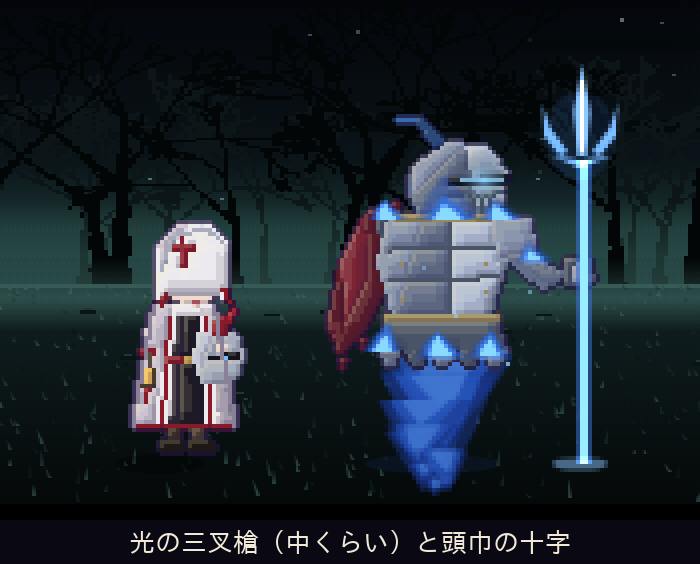
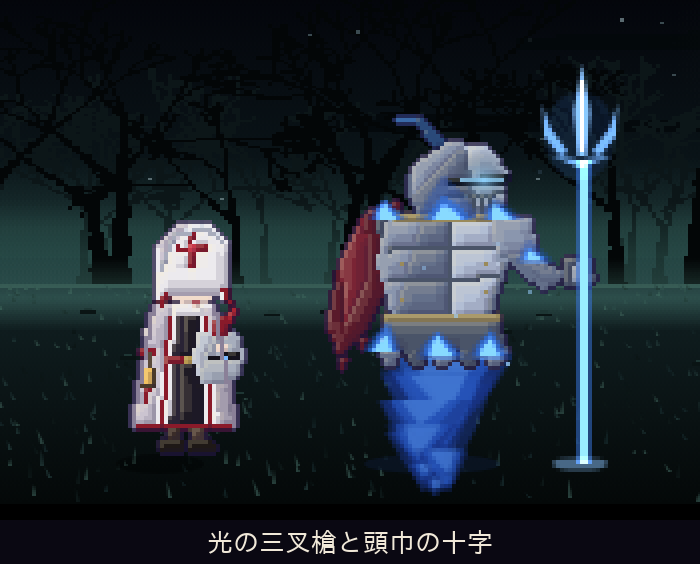
見本：頭巾の十字を真ん中に
Claude-Session: https://claude.ai/code/session_01WH54oS4KmYdGRLZPTJSRWC

Changed region(s): [[0.18, 0.9344, 0.81, 0.9947], [0.24, 0.422, 0.3, 0.4823]]

diff --git a/dev/mock/girls3.js b/dev/mock/girls3.js
@@ -157,7 +157,7 @@ const GR=o=>[38,42,3,A0=>{const A=OFS(A0,2),{t,l,e,r,q,sh,pt}=A;const W1='#eceae
   t([[16.6,9.6],[26.4,9.4],[26,11.8],[24,12.6],[21,12.2],[18,12.6],[16.8,11.8]],W1);l(17.2,12.4,25.6,12,W3,.3);
   if(o.hlin){l(16.4,11.6,16.6,14.6,o.hlin,.4);l(26.6,11.2,26.6,14.4,o.hlin,.4);l(16.8,10.8,26.4,10.4,o.hlin,.25)}
   l(16.8,12.4,16.2,14.6,RD,.3);l(26.6,11.4,27.4,13.4,RD,.3);
-  if(o.hx){t([[19,2.6],[20.2,2.4],[20.6,7.8],[19.4,8]],RD);t([[17.4,4.2],[22.2,3.8],[22.2,5],[17.4,5.4]],RD);l(16,8.6,18.6,2.2,'#a8acbc',.3);l(18.6,2.2,24,1.8,'#a8acbc',.3);l(24,1.8,26.4,3.6,'#a8acbc',.3);for(const[x,y]of[[20,1.4],[23,1.2],[25.6,2.4]])q(x,y,'#d8dce6')}});
+  if(o.hx){t([[20.6,2],[21.8,1.9],[21.6,3.6],[22.2,7.6],[21.4,8.4],[20.6,7.6],[21,3.6]],RD);t([[18.4,4.2],[20.2,4.4],[22.2,4.2],[24.2,3.9],[24,5.2],[22.2,5.1],[20.2,5.3],[18.4,5.4]],RD);t([[21.3,3.6],[22.2,4.7],[21.3,5.8],[20.4,4.7]],'#c83a4a');l(16,8.6,18.6,2.2,'#a8acbc',.3);l(18.6,2.2,24,1.8,'#a8acbc',.3);l(24,1.8,26.4,3.6,'#a8acbc',.3);for(const[x,y]of[[20,1.4],[23,1.2],[25.6,2.4]])q(x,y,'#d8dce6')}});
  // 手前の腕と兜
  pt('af',()=>{t([[23.4,14.6],[26,15.6],[27,20.6],[24.6,21]],W2);t([[23.8,19.6],[26.8,19.4],[27,20.8],[24.2,21]],o.cuff||RD);
   t([[22,19],[29,19],[30,22.6],[29,26],[26.6,27.4],[22.6,27],[21.4,23]],'#a8b0be');t([[22,19],[25,19],[23.4,23],[22.6,27],[21.4,23]],'#c4cad6');t([[24,22.4],[29.6,22.2],[29.6,23.4],[24,23.6]],'#14121a');q(27,22.8,'#7ab8ff');
